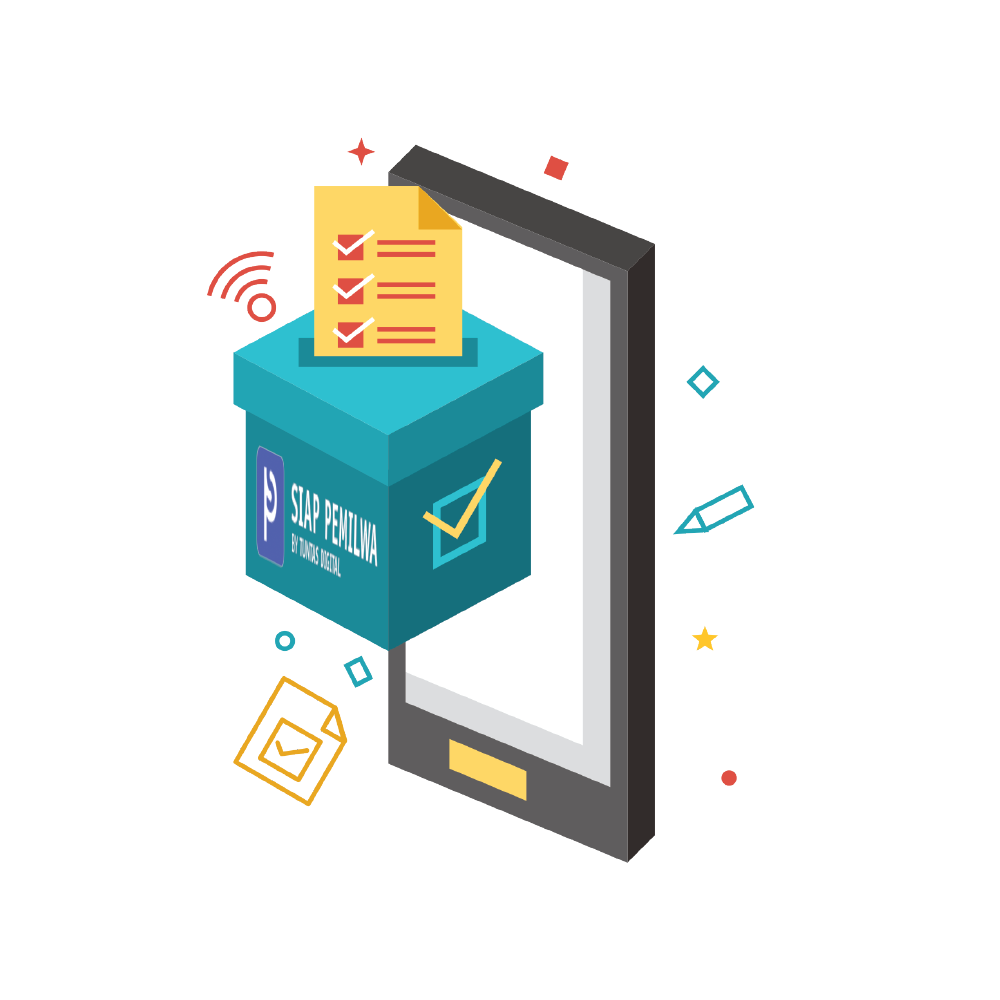
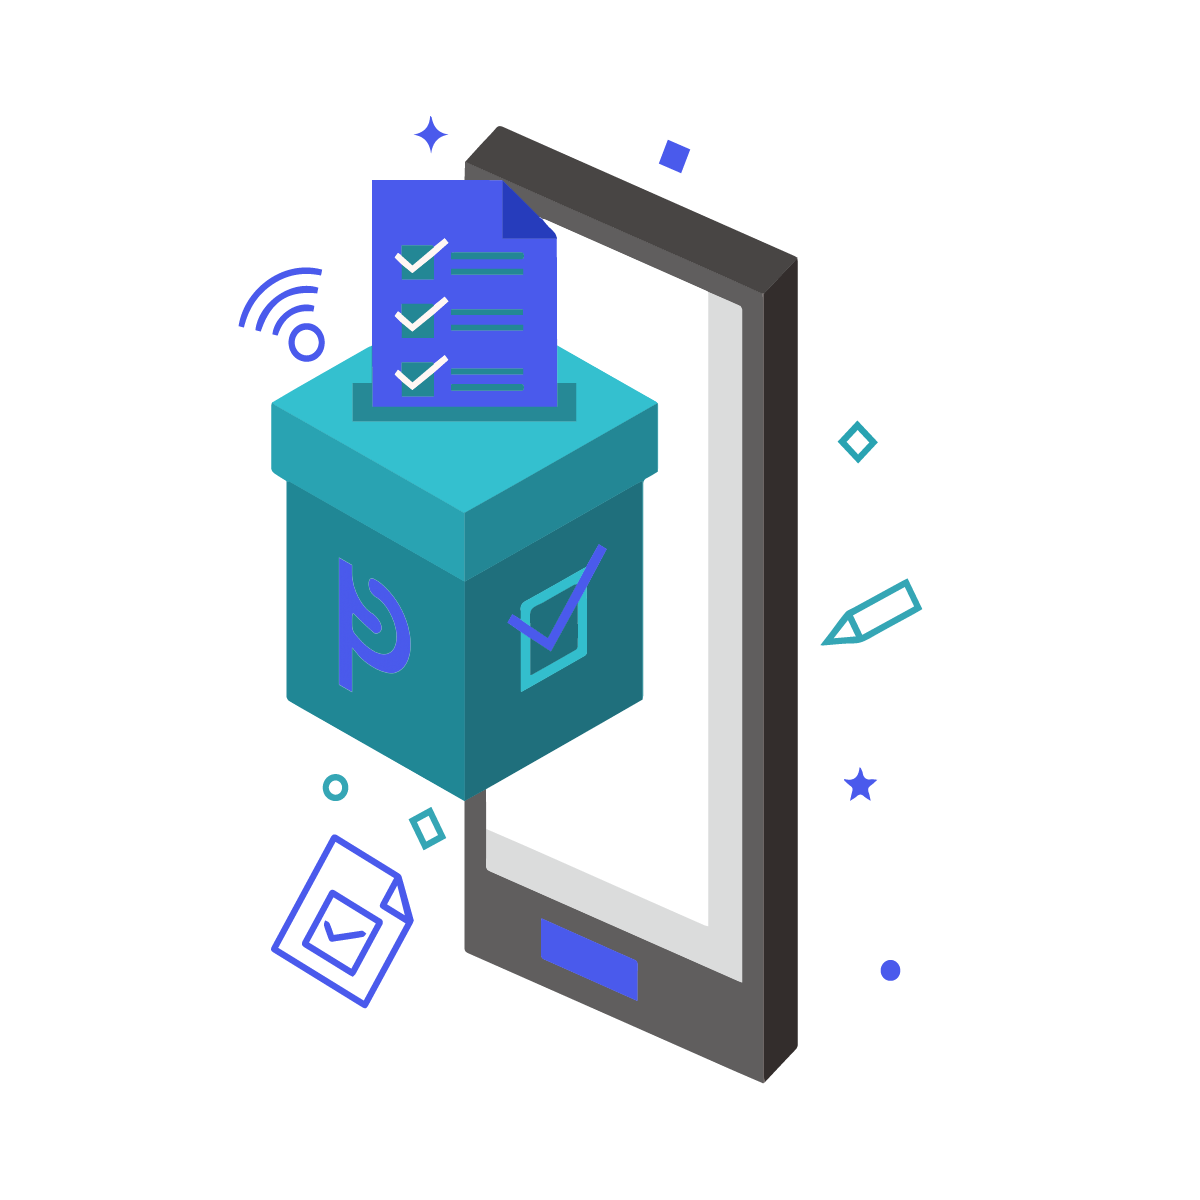
Penyesuaian warna

diff --git a/assets/css/main.css b/assets/css/main.css
@@ -16,6 +16,7 @@
 :root {
   --royal-blue: #4A5AEC; /*primary color*/
   --torquoise: #00E4BD; /*secondary color*/
+  --gunmetal: #222D32;
   --blue: #007bff;
   --indigo: #6610f2;
   --purple: #6f42c1;
@@ -14965,7 +14966,7 @@ be a descendant of the grid when it is being dragged.
             flex: 0 0 auto;
     display: block;
     width: 230px;
-    background-color: #2C0C5A;
+    background-color: royalblue; /*warna bg logo*/
   }
 }
 
@@ -14977,7 +14978,7 @@ be a descendant of the grid when it is being dragged.
 .app-sidebar__toggle {
   padding: 0 15px;
   font-family: fontAwesome;
-  color: #fff;
+  color: #f8f9fa; /*warna toggle header*/
   line-height: 2.4;
   -webkit-transition: background-color 0.3s ease;
   -o-transition: background-color 0.3s ease;
@@ -14998,8 +14999,8 @@ be a descendant of the grid when it is being dragged.
 }
 
 .app-sidebar__toggle:focus, .app-sidebar__toggle:hover {
-  color: #fff;
-  background-color: #00635a;
+  color: #f3f3f3;
+  background-color: royalblue;
   text-decoration: none;
 }
 

diff --git a/assets/css/style.css b/assets/css/style.css
@@ -95,7 +95,7 @@ h6 {
 }
 
 #header .logo img {
-  max-height: 40px;
+  max-height: 55px;
 }
 
 @media (max-width: 991px) {

diff --git a/application/views/_partials/navbar.php b/application/views/_partials/navbar.php
@@ -1,9 +1,9 @@
 <header class="app-header">
-  <!-- <a class="app-header__logo" href="utama">Pemilwa Amikom</a>
+  <!-- <a class="app-header__logo" href="utama">Siap Pemilwa</a>
  -->
   <!-- Logo with maximum size of 200x60 -->
   <a class="app-header__logo" href="utama">
-    <img src="<?= base_url('assets/images/siap-pemilwa-logo.gif'); ?>" alt="Logo" style="max-width: 200px; max-height: 60px;">
+    <img src="<?= base_url('assets/images/siap-pemilwa-horizontal-white.png'); ?>" alt="Logo" style="max-width: 200px; max-height: 60px;">
   </a>
   <!-- Sidebar toggle button--><a class="app-sidebar__toggle mt-1" href="#" data-toggle="sidebar" aria-label="Hide Sidebar"></a>
   <!-- Navbar Right Menu-->

diff --git a/application/views/admin/index.php b/application/views/admin/index.php
@@ -14,7 +14,7 @@
   <meta property="og:url" content="http://pratikborsadiya.in/blog/vali-admin">
   <meta property="og:image" content="http://pratikborsadiya.in/blog/vali-admin/hero-social.png">
   <meta property="og:description" content="Vali is a responsive and free admin theme built with Bootstrap 4, SASS and PUG.js. It's fully customizable and modular.">
-  <title>Login - Pemilwa Amikom</title>
+  <title>Login - Pemilwa</title>
   <meta charset="utf-8">
   <meta http-equiv="X-UA-Compatible" content="IE=edge">
   <meta name="viewport" content="width=device-width, initial-scale=1">

diff --git a/application/views/admin/_partials/navbar.php b/application/views/admin/_partials/navbar.php
@@ -3,7 +3,7 @@
  -->
   <!-- Logo with maximum size of 200x60 -->
   <a class="app-header__logo" href="utama">
-    <img src="<?= base_url('assets/images/siap-pemilwa-logo.gif'); ?>" alt="Logo" style="max-width: 200px; max-height: 60px;">
+    <img src="<?= base_url('assets/images/siap-pemilwa-horizontal-white.png'); ?>" alt="Logo" style="max-width: 200px; max-height: 60px;">
   </a>
   <!-- Sidebar toggle button--><a class="app-sidebar__toggle mt-1" href="#" data-toggle="sidebar" aria-label="Hide Sidebar"></a>
   <!-- Navbar Right Menu-->

diff --git a/application/views/admin/masuk/index.php b/application/views/admin/masuk/index.php
@@ -89,7 +89,7 @@
             box-shadow: none;
             width: 100%;
             height: 40px;
-            background-color: #03A9F4;
+            background-color: #4A5AEC;
             color: #fff;
             border-radius: 25px;
             box-shadow: 3px 3px 3px #b1b1b1,
@@ -104,7 +104,7 @@
         .wrapper a {
             text-decoration: none;
             font-size: 0.8rem;
-            color: #03A9F4;
+            color: #4A5AEC;
         }
 
         .wrapper a:hover {

diff --git a/application/views/masuk/index.php b/application/views/masuk/index.php
@@ -89,7 +89,7 @@
             box-shadow: none;
             width: 100%;
             height: 40px;
-            background-color: #03A9F4;
+            background-color: #4A5AEC;
             color: #fff;
             border-radius: 25px;
             box-shadow: 3px 3px 3px #b1b1b1,
@@ -104,7 +104,7 @@
         .wrapper a {
             text-decoration: none;
             font-size: 0.8rem;
-            color: #03A9F4;
+            color: #4A5AEC;
         }
 
         .wrapper a:hover {
